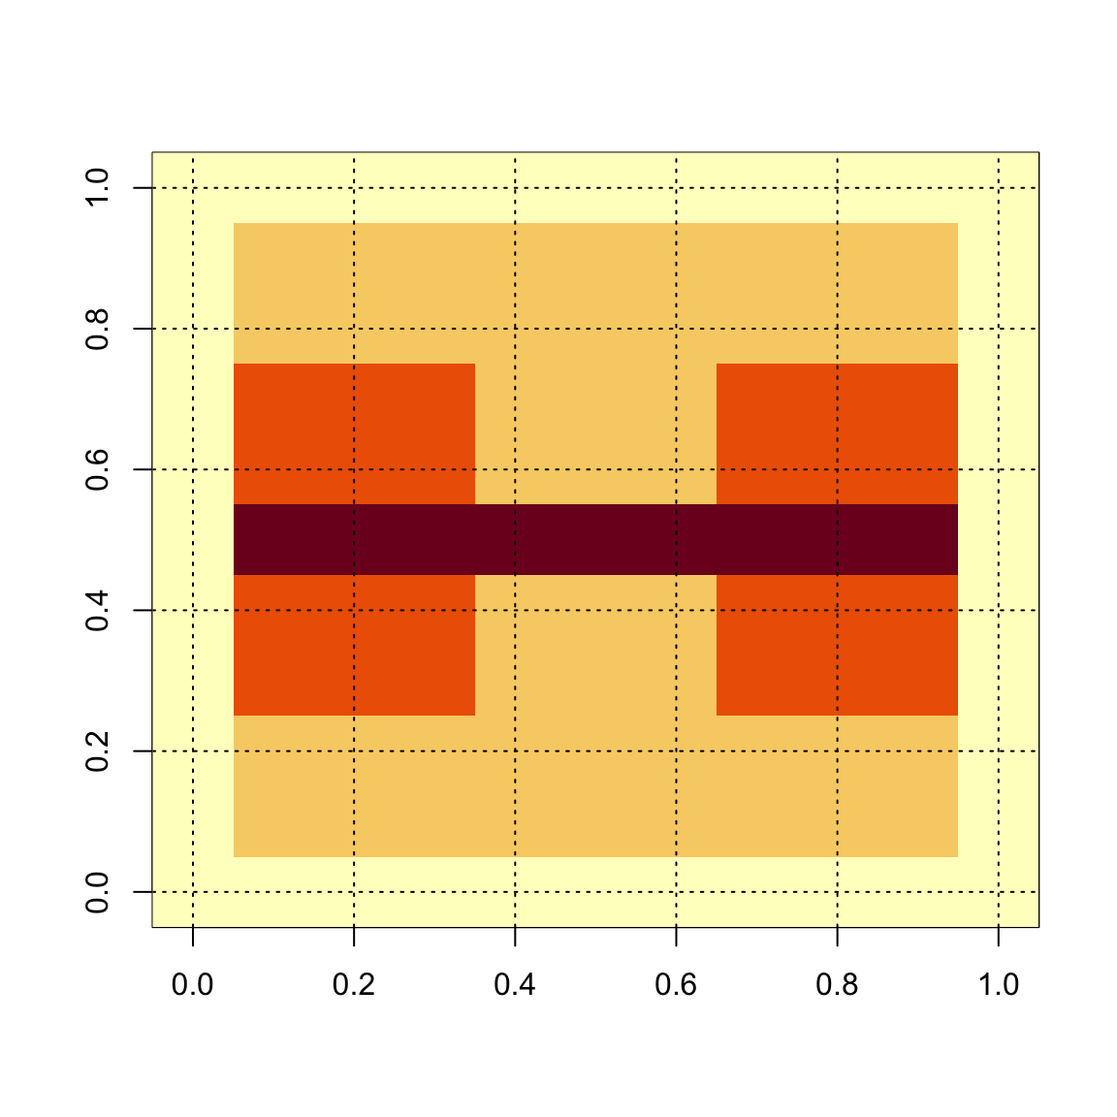
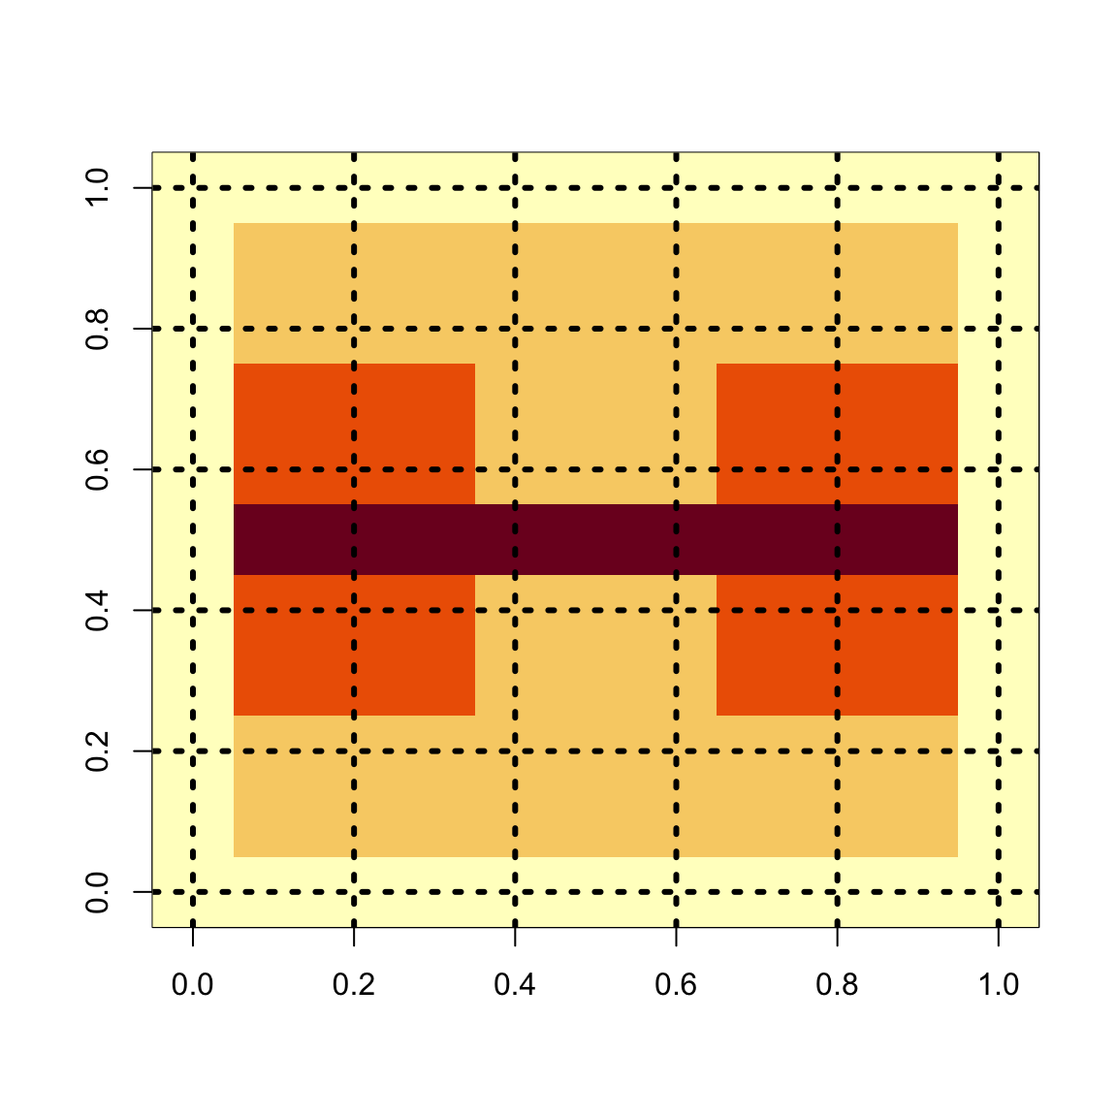
Built site for catsim: 0.1.0.9039@d517064

diff --git a/articles/two-dimensional-example.html b/articles/two-dimensional-example.html
@@ -98,7 +98,7 @@
 <a href="#introduction-to-catsim" class="anchor"></a>Introduction to <code>catsim</code>
 </h1>
 <p>The <strong>Cat</strong>egorial <strong>S</strong>tructural Similarity <strong>I</strong>mage <strong>M</strong>etric, or <strong>CatSIM</strong>, provides a similarity metric for binary or multicategory images or maps after the style of <a href="https://en.wikipedia.org/wiki/Structural_similarity">MS-SSIM</a>. It attempts to assess similiarity between two images that accounts for the similiarity between structures or regions of the image rather than a per-pixel discrepancy, ideally in a way which is similar to human assessments of similarity.</p>
-<p>It works by assessing similarity within a a sliding window across the image, then downsampling and doing the same on different scales, and then combining the ratings together.</p>
+<p>It works by assessing similarity within a a sliding window across the image, then downsampling and doing the same on different scales, and then combining the ratings together. The first scale is the entire image, the second scale is the image shrunk down to half its size, and so on.</p>
 </div>
 <div id="constructing-an-example" class="section level1">
 <h1 class="hasAnchor">
@@ -106,34 +106,34 @@
 <p>To demonstrate how it works, first we construct a simple multicategory image and blow it up to a larger size. The grid lines are added for reference. This is our “ground truth” image.</p>
 <div class="sourceCode" id="cb2"><html><body><pre class="r">
  <span class="no">multfactor</span> <span class="kw">=</span> <span class="fl">20</span>
- <span class="no">onesmat</span> <span class="kw">&lt;-</span> <span class="fu"><a href="https://rdrr.io/r/base/matrix.html">matrix</a></span>(<span class="fl">1</span>,<span class="no">multfactor</span>,<span class="no">multfactor</span>)
- <span class="no">exmat</span> <span class="kw">&lt;-</span> <span class="fu"><a href="https://rdrr.io/r/base/matrix.html">matrix</a></span>(<span class="fl">0</span>,<span class="fl">12</span>,<span class="fl">12</span>)
- <span class="no">exmat</span>[<span class="fl">2</span>:<span class="fl">10</span>,<span class="fu"><a href="https://rdrr.io/r/base/c.html">c</a></span>(<span class="fl">2</span>,<span class="fl">3</span>,<span class="fl">9</span>,<span class="fl">10</span>)] <span class="kw">&lt;-</span> <span class="fl">1</span>
- <span class="no">exmat</span>[<span class="fl">2</span>:<span class="fl">10</span>,<span class="fu"><a href="https://rdrr.io/r/base/c.html">c</a></span>(<span class="fl">4</span>,<span class="fl">5</span>,<span class="fl">7</span>,<span class="fl">8</span>)] <span class="kw">&lt;-</span> <span class="fl">2</span>
- <span class="no">exmat</span>[<span class="fl">5</span>:<span class="fl">7</span>,<span class="fl">2</span>:<span class="fl">10</span>]<span class="kw">&lt;-</span><span class="fl">1</span>
- <span class="no">exmat</span>[<span class="fl">2</span>:<span class="fl">10</span>,<span class="fu"><a href="https://rdrr.io/r/base/c.html">c</a></span>(<span class="fl">6</span>)] <span class="kw">&lt;-</span> <span class="fl">3</span>
- <span class="fu"><a href="https://rdrr.io/r/graphics/image.html">image</a></span>(<span class="no">exmat</span>[<span class="fl">11</span>:<span class="fl">1</span>,<span class="fl">1</span>:<span class="fl">11</span>])
-  <span class="fu"><a href="https://rdrr.io/r/graphics/grid.html">grid</a></span>(<span class="kw">col</span><span class="kw">=</span><span class="st">"black"</span>)</pre></body></html></div>
+ <span class="no">onesmat</span> <span class="kw">&lt;-</span> <span class="fu"><a href="https://rdrr.io/r/base/matrix.html">matrix</a></span>(<span class="fl">1</span>, <span class="no">multfactor</span>, <span class="no">multfactor</span>)
+ <span class="no">exmat</span> <span class="kw">&lt;-</span> <span class="fu"><a href="https://rdrr.io/r/base/matrix.html">matrix</a></span>(<span class="fl">0</span>, <span class="fl">12</span>, <span class="fl">12</span>)
+ <span class="no">exmat</span>[<span class="fl">2</span>:<span class="fl">10</span>, <span class="fu"><a href="https://rdrr.io/r/base/c.html">c</a></span>(<span class="fl">2</span>, <span class="fl">3</span>, <span class="fl">9</span>, <span class="fl">10</span>)] <span class="kw">&lt;-</span> <span class="fl">1</span>
+ <span class="no">exmat</span>[<span class="fl">2</span>:<span class="fl">10</span>,<span class="fu"><a href="https://rdrr.io/r/base/c.html">c</a></span>(<span class="fl">4</span>, <span class="fl">5</span>, <span class="fl">7</span>, <span class="fl">8</span>)] <span class="kw">&lt;-</span> <span class="fl">2</span>
+ <span class="no">exmat</span>[<span class="fl">5</span>:<span class="fl">7</span>, <span class="fl">2</span>:<span class="fl">10</span>] <span class="kw">&lt;-</span><span class="fl">1</span>
+ <span class="no">exmat</span>[<span class="fl">2</span>:<span class="fl">10</span>, <span class="fu"><a href="https://rdrr.io/r/base/c.html">c</a></span>(<span class="fl">6</span>)] <span class="kw">&lt;-</span> <span class="fl">3</span>
+ <span class="fu"><a href="https://rdrr.io/r/graphics/image.html">image</a></span>(<span class="no">exmat</span>[<span class="fl">11</span>:<span class="fl">1</span>, <span class="fl">1</span>:<span class="fl">11</span>])
+  <span class="fu"><a href="https://rdrr.io/r/graphics/grid.html">grid</a></span>(<span class="kw">col</span><span class="kw">=</span><span class="st">"black"</span>, <span class="kw">lwd</span> <span class="kw">=</span> <span class="fl">3</span>)</pre></body></html></div>
 <p><img src="two-dimensional-example_files/figure-html/construction-1.png" width="576"></p>
 <div class="sourceCode" id="cb3"><html><body><pre class="r"> <span class="no">bigmat</span> <span class="kw">=</span> <span class="no">exmat</span> <span class="kw">%x%</span> <span class="no">onesmat</span></pre></body></html></div>
 <p>Next, we construct two distorted versions. The first simply shifts the central portion of the image over six pixels. Then, we compute the percentage of pixels that disagree with the baseline image and create a second distorted image by adding salt-and-pepper noise at that rate. Again, grid lines are added only for reference.</p>
 <div class="sourceCode" id="cb4"><html><body><pre class="r"> <span class="fu"><a href="https://rdrr.io/r/base/Random.html">set.seed</a></span>(<span class="fl">20200323</span>)
  <span class="no">shift</span><span class="kw">=</span><span class="fl">6</span> <span class="co"># we are shifting horizontally by six pixels</span>
- <span class="no">basemat</span> <span class="kw">&lt;-</span> <span class="no">bigmat</span>[<span class="fl">1</span>:(<span class="fl">11</span>*<span class="no">multfactor</span>),<span class="fl">1</span>:(<span class="fl">11</span>*<span class="no">multfactor</span>)]
- <span class="no">shiftmat</span> <span class="kw">&lt;-</span> <span class="no">bigmat</span>[(<span class="fl">1</span>+<span class="no">shift</span>):(<span class="fl">11</span>*<span class="no">multfactor</span>+<span class="no">shift</span>),<span class="fl">1</span>:(<span class="fl">11</span>*<span class="no">multfactor</span>)]
+ <span class="no">basemat</span> <span class="kw">&lt;-</span> <span class="no">bigmat</span>[<span class="fl">1</span>:(<span class="fl">11</span>*<span class="no">multfactor</span>), <span class="fl">1</span>:(<span class="fl">11</span>*<span class="no">multfactor</span>)]
+ <span class="no">shiftmat</span> <span class="kw">&lt;-</span> <span class="no">bigmat</span>[(<span class="fl">1</span>+<span class="no">shift</span>):(<span class="fl">11</span>*<span class="no">multfactor</span>+<span class="no">shift</span>), <span class="fl">1</span>:(<span class="fl">11</span>*<span class="no">multfactor</span>)]
  <span class="co">### Here we have shifted the matrix slightly</span>
- <span class="fu"><a href="https://rdrr.io/r/graphics/par.html">par</a></span>(<span class="kw">mfrow</span><span class="kw">=</span><span class="fu"><a href="https://rdrr.io/r/base/c.html">c</a></span>(<span class="fl">1</span>,<span class="fl">2</span>))
+ <span class="fu"><a href="https://rdrr.io/r/graphics/par.html">par</a></span>(<span class="kw">mfrow</span> <span class="kw">=</span> <span class="fu"><a href="https://rdrr.io/r/base/c.html">c</a></span>(<span class="fl">1</span>,<span class="fl">2</span>))
  <span class="fu"><a href="https://rdrr.io/r/graphics/image.html">image</a></span>(<span class="no">shiftmat</span>)
- <span class="fu"><a href="https://rdrr.io/r/graphics/grid.html">grid</a></span>(<span class="kw">col</span><span class="kw">=</span><span class="st">"black"</span>)
+ <span class="fu"><a href="https://rdrr.io/r/graphics/grid.html">grid</a></span>(<span class="kw">col</span> <span class="kw">=</span> <span class="st">"black"</span>, <span class="kw">lwd</span><span class="kw">=</span><span class="fl">3</span>)
 
  <span class="co">### computing the error rate</span>
- <span class="no">acc</span> <span class="kw">=</span> <span class="fu"><a href="https://rdrr.io/r/base/mean.html">mean</a></span>(<span class="no">basemat</span><span class="kw">==</span><span class="no">shiftmat</span>)
- <span class="no">errmat</span> <span class="kw">&lt;-</span> (<span class="fu"><a href="https://rdrr.io/r/base/matrix.html">matrix</a></span>(<span class="fu"><a href="https://rdrr.io/r/base/sample.html">sample</a></span>(<span class="fl">0</span>:<span class="fl">3</span>,<span class="fl">121</span>*(<span class="no">multfactor</span>^<span class="fl">2</span>),<span class="kw">replace</span><span class="kw">=</span><span class="fl">TRUE</span>,<span class="kw">prob</span><span class="kw">=</span><span class="fu"><a href="https://rdrr.io/r/base/c.html">c</a></span>(<span class="no">acc</span>,<span class="fu"><a href="https://rdrr.io/r/base/rep.html">rep</a></span>((<span class="fl">1</span>-<span class="no">acc</span>)/<span class="fl">3</span>,<span class="fl">3</span>))),
-    (<span class="fl">11</span>*<span class="no">multfactor</span>),(<span class="fl">11</span>*<span class="no">multfactor</span>))+<span class="no">basemat</span>) <span class="kw">%%</span> <span class="fl">4</span>
+ <span class="no">acc</span> <span class="kw">=</span> <span class="fu"><a href="https://rdrr.io/r/base/mean.html">mean</a></span>(<span class="no">basemat</span> <span class="kw">==</span> <span class="no">shiftmat</span>)
+ <span class="no">errmat</span> <span class="kw">&lt;-</span> (<span class="fu"><a href="https://rdrr.io/r/base/matrix.html">matrix</a></span>(<span class="fu"><a href="https://rdrr.io/r/base/sample.html">sample</a></span>(<span class="fl">0</span>:<span class="fl">3</span>,<span class="fl">121</span>*(<span class="no">multfactor</span>^<span class="fl">2</span>), <span class="kw">replace</span><span class="kw">=</span><span class="fl">TRUE</span>, <span class="kw">prob</span><span class="kw">=</span><span class="fu"><a href="https://rdrr.io/r/base/c.html">c</a></span>(<span class="no">acc</span>,<span class="fu"><a href="https://rdrr.io/r/base/rep.html">rep</a></span>((<span class="fl">1</span>-<span class="no">acc</span>)/<span class="fl">3</span>,<span class="fl">3</span>))),
+    (<span class="fl">11</span>*<span class="no">multfactor</span>), (<span class="fl">11</span>*<span class="no">multfactor</span>))+<span class="no">basemat</span>) <span class="kw">%%</span> <span class="fl">4</span>
 
  <span class="co">### here we have made an image that matches its accuracy with salt and pepper noise</span>
  <span class="fu"><a href="https://rdrr.io/r/graphics/image.html">image</a></span>(<span class="no">errmat</span>)
- <span class="fu"><a href="https://rdrr.io/r/graphics/grid.html">grid</a></span>(<span class="kw">col</span><span class="kw">=</span><span class="st">"black"</span>)</pre></body></html></div>
+ <span class="fu"><a href="https://rdrr.io/r/graphics/grid.html">grid</a></span>(<span class="kw">col</span> <span class="kw">=</span> <span class="st">"black"</span>, <span class="kw">lwd</span><span class="kw">=</span><span class="fl">3</span>)</pre></body></html></div>
 <p><img src="two-dimensional-example_files/figure-html/distortion-1.png" width="700"></p>
 <p>Depending on your preferences, you may have reason to prefer one or the other, but, arguably, the shifted version is in some sense better, even though their pixelwise agreement is approximately the same.</p>
 </div>
@@ -143,11 +143,11 @@
 <p>If we take only one level of <code>catsim</code>, we get the following results when comparing to the initial matrix:</p>
 <div class="sourceCode" id="cb5"><html><body><pre class="r"><span class="fu"><a href="https://rdrr.io/r/base/library.html">library</a></span>(<span class="no">catsim</span>)
 <span class="co">### comparing base to shifted</span>
-<span class="fu"><a href="../reference/catsim.html">catsim</a></span>(<span class="no">basemat</span>,<span class="no">shiftmat</span>,<span class="kw">weights</span><span class="kw">=</span><span class="fl">1</span>)
+<span class="fu"><a href="../reference/catsim.html">catsim</a></span>(<span class="no">basemat</span>, <span class="no">shiftmat</span>, <span class="kw">weights</span> <span class="kw">=</span> <span class="fl">1</span>)
 <span class="co">#&gt; [1] 0.6860161</span>
 
 <span class="co">### comparing base to salt-and-pepper</span>
-<span class="fu"><a href="../reference/catsim.html">catsim</a></span>(<span class="no">basemat</span>,<span class="no">errmat</span>,<span class="kw">weights</span><span class="kw">=</span><span class="fl">1</span>)
+<span class="fu"><a href="../reference/catsim.html">catsim</a></span>(<span class="no">basemat</span>, <span class="no">errmat</span>, <span class="kw">weights</span> <span class="kw">=</span> <span class="fl">1</span>)
 <span class="co">#&gt; [1] 0.105825</span>
 
 <span class="co">### looking at accuracy</span>
@@ -157,17 +157,17 @@
 <span class="co">#&gt; [1] 0.9364463</span></pre></body></html></div>
 <p>This captures the similarity between the original image and the shifted image, but is too “critical” of the salt-and-pepper error. We can correct this by looking at the image on multiple scales: we downsample by a factor of 2 and then compute the index for that layer, then repeat, and combine the layers at the end into one measure. By default, we use 5 layers of downsampling, but this can be specified based on your application and the size of the image. Downsampling should remove and smooth out a light level of salt-and-pepper error.</p>
 <p>With five levels, the difference is smaller, but still prefers the shifted version over the salt and pepper error.</p>
-<div class="sourceCode" id="cb6"><html><body><pre class="r"><span class="fu"><a href="../reference/catsim.html">catsim</a></span>(<span class="no">basemat</span>,<span class="no">shiftmat</span>,<span class="kw">weights</span><span class="kw">=</span><span class="fu"><a href="https://rdrr.io/r/base/rep.html">rep</a></span>(<span class="fl">.2</span>,<span class="fl">5</span>))
+<div class="sourceCode" id="cb6"><html><body><pre class="r"><span class="fu"><a href="../reference/catsim.html">catsim</a></span>(<span class="no">basemat</span>, <span class="no">shiftmat</span>, <span class="kw">weights</span> <span class="kw">=</span> <span class="fu"><a href="https://rdrr.io/r/base/rep.html">rep</a></span>(<span class="fl">.2</span>, <span class="fl">5</span>))
 <span class="co">#&gt; [1] 0.8157256</span>
 
 <span class="co">### comparing base to salt-and-pepper</span>
-<span class="fu"><a href="../reference/catsim.html">catsim</a></span>(<span class="no">basemat</span>,<span class="no">errmat</span>,<span class="kw">weights</span><span class="kw">=</span><span class="fu"><a href="https://rdrr.io/r/base/rep.html">rep</a></span>(<span class="fl">.2</span>,<span class="fl">5</span>))
+<span class="fu"><a href="../reference/catsim.html">catsim</a></span>(<span class="no">basemat</span>, <span class="no">errmat</span>, <span class="kw">weights</span> <span class="kw">=</span> <span class="fu"><a href="https://rdrr.io/r/base/rep.html">rep</a></span>(<span class="fl">.2</span>, <span class="fl">5</span>))
 <span class="co">#&gt; [1] 0.602285</span></pre></body></html></div>
 </div>
 <div id="catsim-options" class="section level1">
 <h1 class="hasAnchor">
 <a href="#catsim-options" class="anchor"></a>CatSIM options</h1>
-<p>By default, CatSIM uses <a href="https://en.wikipedia.org/wiki/Cohen's_kappa">Cohen’s kappa (<span class="math inline">\(\kappa\)</span>)</a> as the similarity comparison for the images. This measures agreement between the classes with and adjustment for the probability of chance agreement. However, depending on the application, a different comparison might make sense. The following options are availabe (using the <code>method</code> argument):</p>
+<p>By default, CatSIM uses <a href="https://en.wikipedia.org/wiki/Cohen's_kappa">Cohen’s kappa (<span class="math inline">\(\kappa\)</span>)</a> as the similarity comparison for the images. This measures agreement between the classes with and adjustment for the probability of chance agreement. However, depending on the application, a different comparison might make sense. The following options are available (using the <code>method</code> argument):</p>
 <ul>
 <li>
 <a href="https://en.wikipedia.org/wiki/Jaccard_index">Jaccard index</a>, suitable for binary images where presence of one class is important (for instance, fMRI activation maps), with <code>method="Jaccard"</code>.</li>
@@ -181,23 +181,24 @@
 <li>
 <a href="https://nlp.stanford.edu/IR-book/html/htmledition/evaluation-of-clustering-1.html">Normalized mutual information</a>, a information theory similarity metric based on the Kullback-Liebler divergence between the two distributions, with <code>method = "NMI"</code> or <code>MI</code>.</li>
 </ul>
-<div class="sourceCode" id="cb7"><html><body><pre class="r"><span class="fu"><a href="../reference/catsim.html">catsim</a></span>(<span class="no">basemat</span>,<span class="no">shiftmat</span>,<span class="kw">weights</span><span class="kw">=</span><span class="fu"><a href="https://rdrr.io/r/base/rep.html">rep</a></span>(<span class="fl">.2</span>,<span class="fl">5</span>), <span class="kw">method</span><span class="kw">=</span><span class="st">"Rand"</span>)
+<div class="sourceCode" id="cb7"><html><body><pre class="r"><span class="fu"><a href="../reference/catsim.html">catsim</a></span>(<span class="no">basemat</span>, <span class="no">shiftmat</span>, <span class="kw">weights</span> <span class="kw">=</span> <span class="fu"><a href="https://rdrr.io/r/base/rep.html">rep</a></span>(<span class="fl">.2</span>,<span class="fl">5</span>), <span class="kw">method</span><span class="kw">=</span><span class="st">"Rand"</span>)
 <span class="co">#&gt; [1] 0.8791239</span>
-<span class="fu"><a href="../reference/catsim.html">catsim</a></span>(<span class="no">basemat</span>,<span class="no">shiftmat</span>,<span class="kw">weights</span><span class="kw">=</span><span class="fu"><a href="https://rdrr.io/r/base/rep.html">rep</a></span>(<span class="fl">.2</span>,<span class="fl">5</span>), <span class="kw">method</span><span class="kw">=</span><span class="st">"AdjRand"</span>)
+<span class="fu"><a href="../reference/catsim.html">catsim</a></span>(<span class="no">basemat</span>, <span class="no">shiftmat</span>, <span class="kw">weights</span> <span class="kw">=</span> <span class="fu"><a href="https://rdrr.io/r/base/rep.html">rep</a></span>(<span class="fl">.2</span>,<span class="fl">5</span>), <span class="kw">method</span><span class="kw">=</span><span class="st">"AdjRand"</span>)
 <span class="co">#&gt; [1] 0.7831441</span>
-<span class="fu"><a href="../reference/catsim.html">catsim</a></span>(<span class="no">basemat</span>,<span class="no">shiftmat</span>,<span class="kw">weights</span><span class="kw">=</span><span class="fu"><a href="https://rdrr.io/r/base/rep.html">rep</a></span>(<span class="fl">.2</span>,<span class="fl">5</span>), <span class="kw">method</span><span class="kw">=</span><span class="st">"accuracy"</span>)
+<span class="fu"><a href="../reference/catsim.html">catsim</a></span>(<span class="no">basemat</span>, <span class="no">shiftmat</span>, <span class="kw">weights</span> <span class="kw">=</span> <span class="fu"><a href="https://rdrr.io/r/base/rep.html">rep</a></span>(<span class="fl">.2</span>,<span class="fl">5</span>), <span class="kw">method</span><span class="kw">=</span><span class="st">"accuracy"</span>)
 <span class="co">#&gt; [1] 0.8919025</span>
-<span class="fu"><a href="../reference/catsim.html">catsim</a></span>(<span class="no">basemat</span>,<span class="no">shiftmat</span>,<span class="kw">weights</span><span class="kw">=</span><span class="fu"><a href="https://rdrr.io/r/base/rep.html">rep</a></span>(<span class="fl">.2</span>,<span class="fl">5</span>), <span class="kw">method</span><span class="kw">=</span><span class="st">"NMI"</span>)
+<span class="fu"><a href="../reference/catsim.html">catsim</a></span>(<span class="no">basemat</span>, <span class="no">shiftmat</span>, <span class="kw">weights</span> <span class="kw">=</span> <span class="fu"><a href="https://rdrr.io/r/base/rep.html">rep</a></span>(<span class="fl">.2</span>,<span class="fl">5</span>), <span class="kw">method</span><span class="kw">=</span><span class="st">"NMI"</span>)
 <span class="co">#&gt; [1] 0.5267611</span></pre></body></html></div>
 <p>The window size can also be adjusted. It should be large enough to capture the scale of the features that are relevant in the analysis. In this example, a portion of the image was displaced by 6 pixels. Too large of a window may average out that difference too much while too small may miss the similarity between the images. Here is a comparison between the shifted image and the salt-and-pepper noise at different window sizes.</p>
-<div class="sourceCode" id="cb8"><html><body><pre class="r"><span class="fu"><a href="../reference/catsim.html">catsim</a></span>(<span class="no">basemat</span>, <span class="no">shiftmat</span>,<span class="kw">weights</span><span class="kw">=</span><span class="fu"><a href="https://rdrr.io/r/base/rep.html">rep</a></span>(<span class="fl">1</span>/<span class="fl">3</span>,<span class="fl">3</span>), <span class="kw">window</span> <span class="kw">=</span> <span class="fl">20</span>)
+<div class="sourceCode" id="cb8"><html><body><pre class="r"><span class="fu"><a href="../reference/catsim.html">catsim</a></span>(<span class="no">basemat</span>, <span class="no">shiftmat</span>, <span class="kw">weights</span> <span class="kw">=</span> <span class="fu"><a href="https://rdrr.io/r/base/rep.html">rep</a></span>(<span class="fl">1</span>/<span class="fl">3</span>, <span class="fl">3</span>), <span class="kw">window</span> <span class="kw">=</span> <span class="fl">20</span>)
 <span class="co">#&gt; [1] 0.8005505</span>
-<span class="fu"><a href="../reference/catsim.html">catsim</a></span>(<span class="no">basemat</span>, <span class="no">shiftmat</span>,<span class="kw">weights</span><span class="kw">=</span><span class="fu"><a href="https://rdrr.io/r/base/rep.html">rep</a></span>(<span class="fl">1</span>/<span class="fl">3</span>,<span class="fl">3</span>), <span class="kw">window</span> <span class="kw">=</span> <span class="fl">5</span>)
+<span class="fu"><a href="../reference/catsim.html">catsim</a></span>(<span class="no">basemat</span>, <span class="no">shiftmat</span>, <span class="kw">weights</span> <span class="kw">=</span> <span class="fu"><a href="https://rdrr.io/r/base/rep.html">rep</a></span>(<span class="fl">1</span>/<span class="fl">3</span>, <span class="fl">3</span>), <span class="kw">window</span> <span class="kw">=</span> <span class="fl">5</span>)
 <span class="co">#&gt; [1] 0.7707617</span>
-<span class="fu"><a href="../reference/catsim.html">catsim</a></span>(<span class="no">basemat</span>, <span class="no">errmat</span>,<span class="kw">weights</span><span class="kw">=</span><span class="fu"><a href="https://rdrr.io/r/base/rep.html">rep</a></span>(<span class="fl">1</span>/<span class="fl">3</span>,<span class="fl">3</span>), <span class="kw">window</span> <span class="kw">=</span> <span class="fl">20</span>)
+<span class="fu"><a href="../reference/catsim.html">catsim</a></span>(<span class="no">basemat</span>, <span class="no">errmat</span>, <span class="kw">weights</span> <span class="kw">=</span> <span class="fu"><a href="https://rdrr.io/r/base/rep.html">rep</a></span>(<span class="fl">1</span>/<span class="fl">3</span>, <span class="fl">3</span>), <span class="kw">window</span> <span class="kw">=</span> <span class="fl">20</span>)
 <span class="co">#&gt; [1] 0.6769789</span>
-<span class="fu"><a href="../reference/catsim.html">catsim</a></span>(<span class="no">basemat</span>, <span class="no">errmat</span>,<span class="kw">weights</span><span class="kw">=</span><span class="fu"><a href="https://rdrr.io/r/base/rep.html">rep</a></span>(<span class="fl">1</span>/<span class="fl">3</span>,<span class="fl">3</span>), <span class="kw">window</span> <span class="kw">=</span> <span class="fl">5</span>)
+<span class="fu"><a href="../reference/catsim.html">catsim</a></span>(<span class="no">basemat</span>, <span class="no">errmat</span>, <span class="kw">weights</span> <span class="kw">=</span> <span class="fu"><a href="https://rdrr.io/r/base/rep.html">rep</a></span>(<span class="fl">1</span>/<span class="fl">3</span>, <span class="fl">3</span>), <span class="kw">window</span> <span class="kw">=</span> <span class="fl">5</span>)
 <span class="co">#&gt; [1] 0.4374019</span></pre></body></html></div>
+<p>The number of levels CatSIM uses can be set by specifying either the <code>levels</code> argument or passing a vector to <code>weights</code>, where the length of the vector dictates how many levels of downsampling will be performed. By default, if the number of levels are specified without specifying the weights, the weights are set to be equal across levels and add up to 1. Specifying <code>weights = rep(1/3,3)</code> is the same as specifying <code>levels = 3</code>.</p>
 <div id="advanced-functionality" class="section level2">
 <h2 class="hasAnchor">
 <a href="#advanced-functionality" class="anchor"></a>Advanced Functionality</h2>
